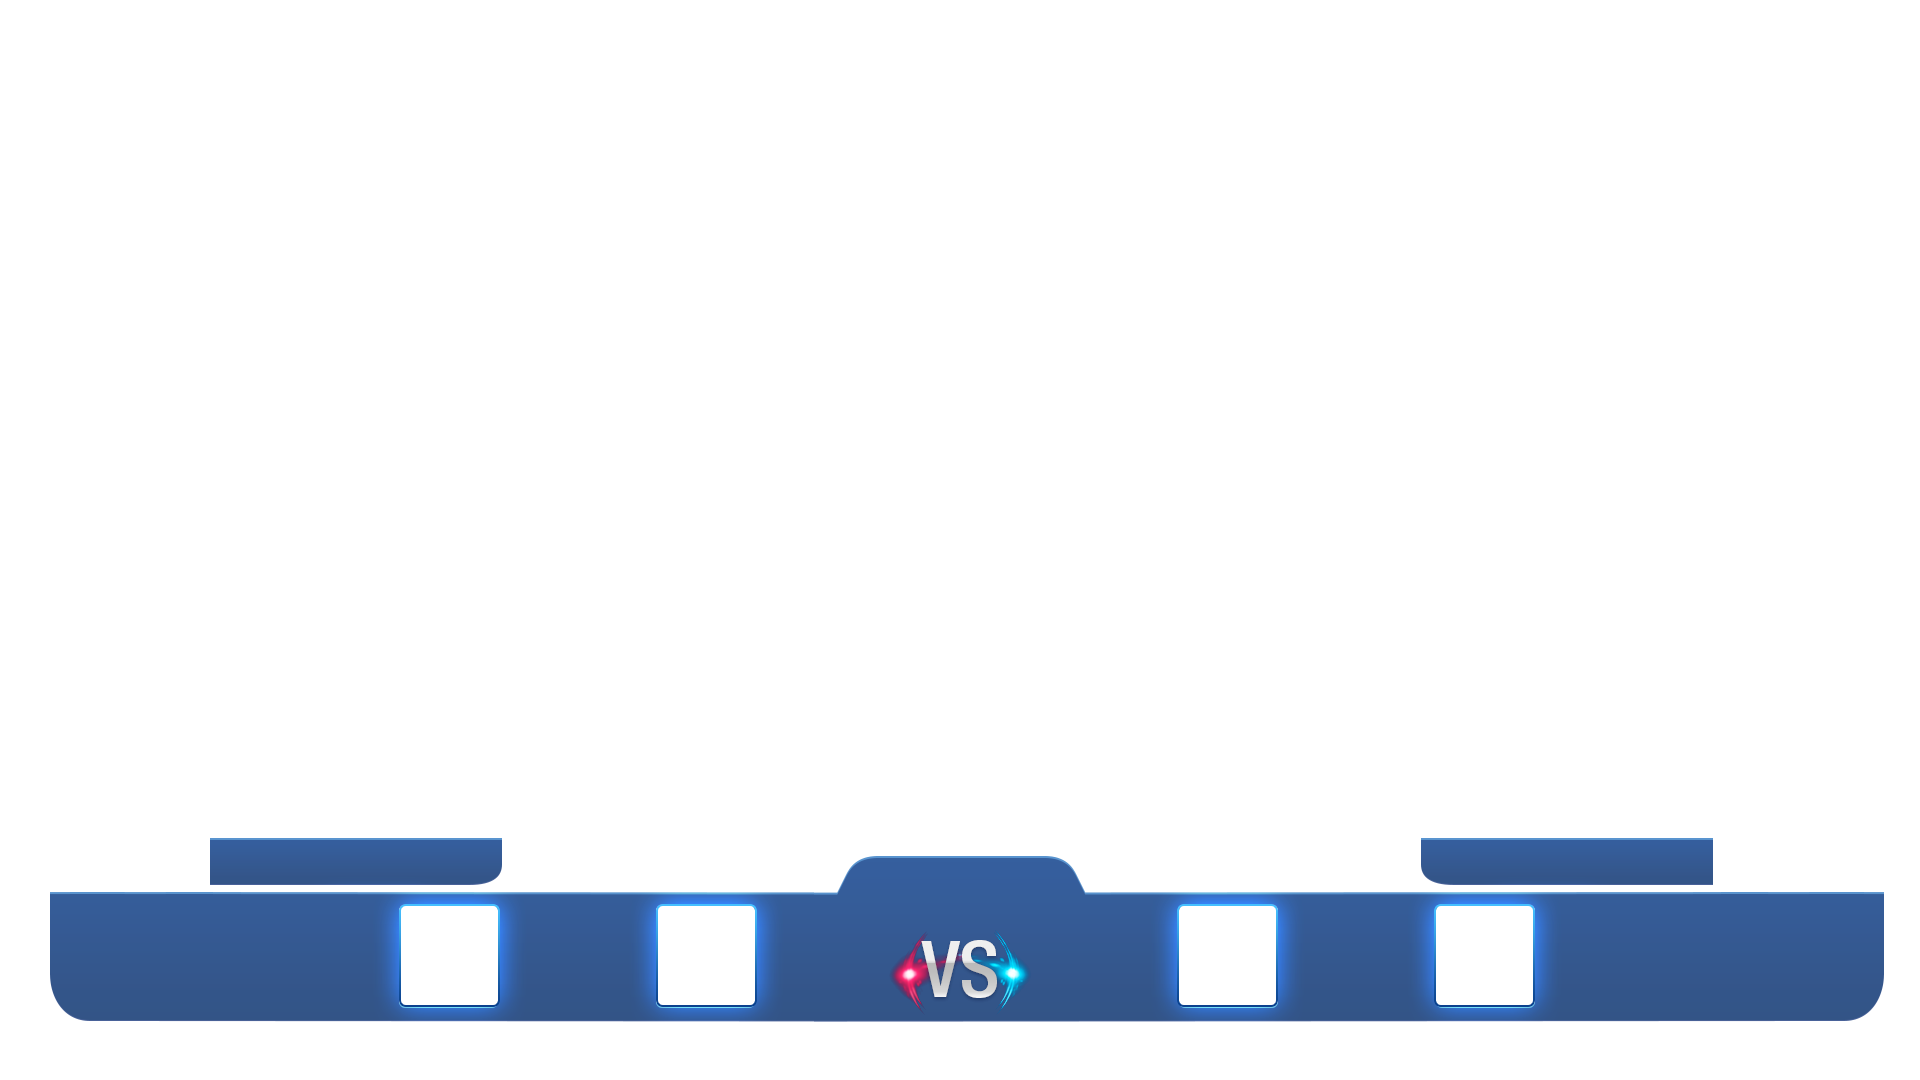
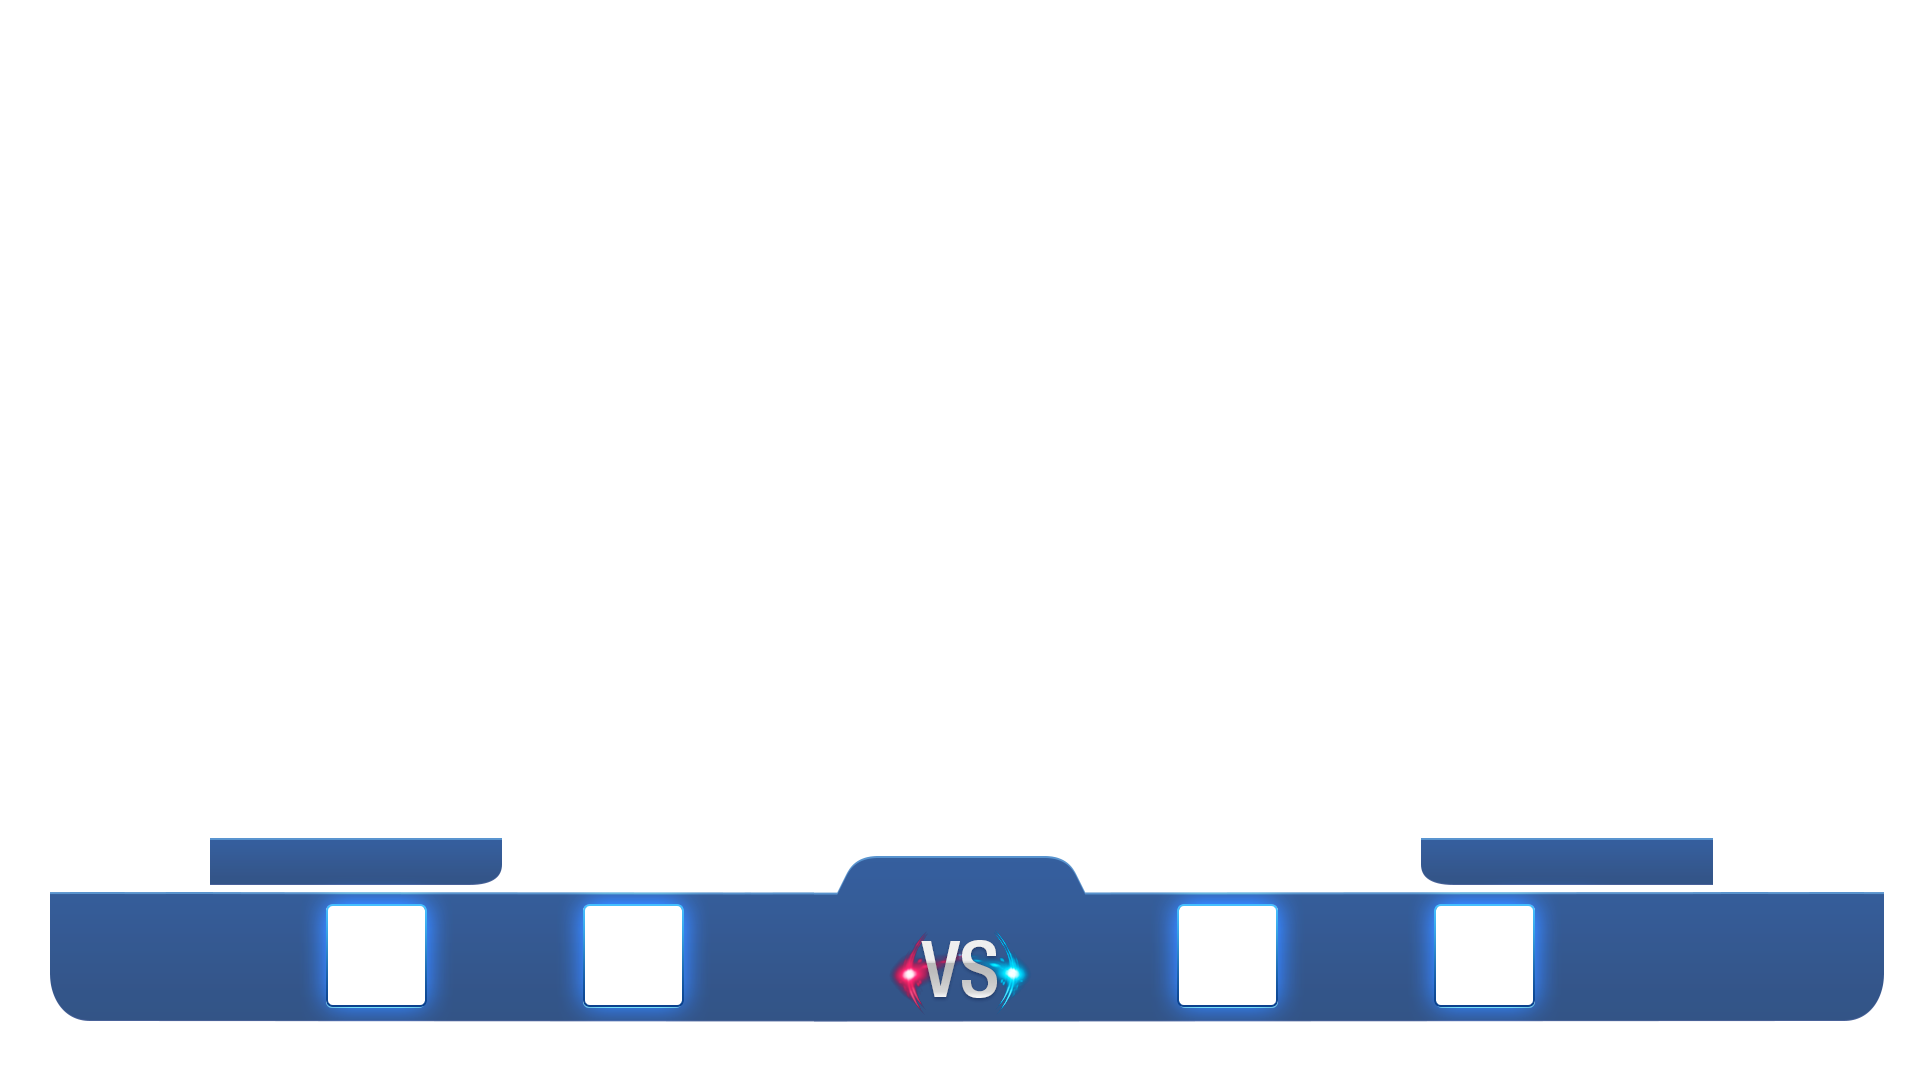
skill name

Changed region(s): [[0.1562, 0.825, 0.4062, 0.9472]]

diff --git a/src/view/panel/stage/StagePanelView.ts b/src/view/panel/stage/StagePanelView.ts
@@ -93,14 +93,6 @@ export class StagePanelView extends BasePanelView {
                 var skillInfoArr = data.skillInfoArr;
                 this.stagePanel.setRightSkillInfoArr(skillInfoArr);
             })
-            // .on(`${CommandId.straightScore3}`, (param) => {
-            //     if (param.team === ViewEvent.STRAIGHT3_LEFT) {
-            //         // this.eventPanel.fadeInStraight3(false);
-            //     }
-            //     else if (param.team === ViewEvent.STRAIGHT3_RIGHT) {
-            //         // this.eventPanel.fadeInStraight3(true);
-            //     }
-            // })
             .on(`${CommandId.toggleTimer}`, (data) => {
                 if (this.timerName === TimerState.START_STR)
                     this.timerName = TimerState.PAUSE_STR;
@@ -112,39 +104,42 @@ export class StagePanelView extends BasePanelView {
                 this.timerName = TimerState.START_STR;
                 // this.scorePanel.resetTimer();
             })
+            .on(`${CommandId.resetGame}`, (data) => {
+                window.location.reload();
+                // this.scorePanel.resetTimer();
+            })
             .on(`${CommandId.updatePlayer}`, (data) => {
                 // this.getElem('#playerImg' + data.idx).src = data.playerDoc.avatar;
                 // this.playerPanel.setPlayer(data.idx, new PlayerInfo(data.playerDoc));
                 this.stagePanel.setPlayerInfo(data.idx, new PlayerInfo(data.playerDoc));
                 // this.scorePanel.setAvgEloScore(data.avgEloScore);
             })
-            .on(`${CommandId.updatePlayerAll}`, (param) => {
-                //todo effect
-                for (var i = 0; i < param.playerInfoArr.length; i++) {
-                    var playerInfo:PlayerInfo = new PlayerInfo(param.playerInfoArr[i]);
-                    // this.playerPanel.setPlayer(i, playerInfo);
-                }
-                // this.scorePanel.setLeftScore(0);
-                // this.scorePanel.setRightScore(0);
-                // this.scorePanel.setAvgEloScore(param.avgEloScore);
-            })
-            .on(`${CommandId.fadeInWinPanel}`, (param) => {
-                var teamInfo = param.teamInfo;
-                var mvpIdx = param.mvpIdx;
-                var mvpId = param.mvpId;
-                // this.eventPanel.fadeInWinPanel(teamInfo, mvpIdx, mvpId);
-            })
-            .on(`${CommandId.fadeOutWinPanel}`, (param) => {
-                // this.eventPanel.fadeOutWinPanel();
-            })
-            .on(`${CommandId.updatePlayerBackNum}`, (param) => {
-                // this.playerPanel.playerCardArr[param.idx].setBackNumber(param.backNum);
-            })
+        // .on(`${CommandId.updatePlayerAll}`, (param) => {
+        //     //todo effect
+        //     for (var i = 0; i < param.playerInfoArr.length; i++) {
+        //         var playerInfo:PlayerInfo = new PlayerInfo(param.playerInfoArr[i]);
+        //         // this.playerPanel.setPlayer(i, playerInfo);
+        //     }
+        //     // this.scorePanel.setLeftScore(0);
+        //     // this.scorePanel.setRightScore(0);
+        //     // this.scorePanel.setAvgEloScore(param.avgEloScore);
+        // })
     }
 
     initStage(gameDoc:any) {
         this.isInit = true;
         this.stagePanel = new StagePanel(this.stage);
+        for (var i = 0; i < 2; i++) {
+            var playerInfo = gameDoc.playerInfoArr[i];
+            this.stagePanel.setPlayerInfo(i, new PlayerInfo(playerInfo));
+        }
+        this.stagePanel.setLeftBall(gameDoc.leftBall);
+        this.stagePanel.setRightBall(gameDoc.rightBall);
+
+        this.stagePanel.setLeftScore(gameDoc.leftScore);
+        this.stagePanel.setRightScore(gameDoc.rightScore);
+        this.stagePanel.setLeftSkillInfoArr(gameDoc.leftSkillInfoArr);
+        this.stagePanel.setRightSkillInfoArr(gameDoc.rightSkillInfoArr);
         // this.scorePanel = new ScorePanel(this);
         // this.scorePanel.init(gameDoc);
         // this.playerPanel = new PlayerPanel(this);
@@ -337,6 +332,10 @@ export class StagePanelView extends BasePanelView {
             skillOP.op = SkillOP.MIN;
             this.opReq(`${CommandId.cs_updateRightSkill}`, skillOP.toJson());
         }
+    }
+
+    onResetGame() {
+        this.opReq(`${CommandId.cs_resetGame}`);
     }
 
 

diff --git a/src/view/panel/stage/StagePanel.ts b/src/view/panel/stage/StagePanel.ts
@@ -75,13 +75,13 @@ export class StagePanel extends Container {
         this.setAvatar(['/img/player/1001.png', '/img/player/1001.png']);
 
 
-        var leftBallText = new createjs.Text("剩余球数：" + "", "35px Arial", "#fff");
+        var leftBallText = new createjs.Text("剩余球数：" + "", "32px Arial", "#fff");
         leftBallText.x = 255;
         leftBallText.y = 846;
         this.addChild(leftBallText);
         this.leftBallText = leftBallText;
 
-        var rightBallText = new createjs.Text("剩余球数：" + "", "35px Arial", "#fff");
+        var rightBallText = new createjs.Text("剩余球数：" + "", "32px Arial", "#fff");
         rightBallText.x = 1450;
         rightBallText.y = leftBallText.y;
         this.addChild(rightBallText);
@@ -109,20 +109,20 @@ export class StagePanel extends Container {
         this.leftScoreText = leftScoreText;
 
         var sScoreText = new createjs.Text(":", "45px Roboto bold", "#ffe21f");
-        sScoreText.x = 960;
+        sScoreText.x = 955;
         sScoreText.y = 873;
         this.addChild(sScoreText);
 
         var rightScoreText = new createjs.Text("6", "45px Roboto bold", "#ffe21f");
         rightScoreText.textAlign = 'center';
         rightScoreText.x = 1025;
-        rightScoreText.y = sScoreText.y;
+        rightScoreText.y = leftScoreText.y;
         this.addChild(rightScoreText);
         this.rightScoreText = rightScoreText;
 
 
         var leftSkill = new Skill(true);
-        leftSkill.x = 400;
+        leftSkill.x = 327;
         leftSkill.y = 905;
         this.skillArr.push(leftSkill);
         this.addChild(leftSkill);
@@ -166,14 +166,16 @@ export class StagePanel extends Container {
     setLeftSkillInfoArr(skillInfoArr:any) {
         for (var i = 0; i < skillInfoArr.length; i++) {
             var skillInfo:SkillInfo = skillInfoArr[i];
-            this.skillArr[0].setSkillNum(i, skillInfo.count)
+            this.skillArr[0].setSkillNum(i, skillInfo.count);
+            this.skillArr[0].skillIconArr[i].setSkillName(skillInfo.name);
         }
     }
 
     setRightSkillInfoArr(skillInfoArr:any) {
         for (var i = 0; i < skillInfoArr.length; i++) {
             var skillInfo:SkillInfo = skillInfoArr[i];
-            this.skillArr[1].setSkillNum(i, skillInfo.count)
+            this.skillArr[1].setSkillNum(i, skillInfo.count);
+            this.skillArr[1].skillIconArr[i].setSkillName(skillInfo.name);
         }
     }
 }

diff --git a/src/view/panel/stage/Skill.ts b/src/view/panel/stage/Skill.ts
@@ -1,12 +1,15 @@
 import Container = createjs.Container;
 import BitmapText = createjs.BitmapText;
+import {blink} from "../../../utils/Fx";
+import Text = createjs.Text;
 
 class SkillIcon extends Container {
     iconCtn:Container;
     skillCount:BitmapText;
+    skillNameText:Text;
 
     constructor() {
-        super()
+        super();
         this.iconCtn = new createjs.Container();
         this.addChild(this.iconCtn);
 
@@ -34,12 +37,18 @@ class SkillIcon extends Container {
                 [75, 0, 24, 30]]
         });
 
-
         var skillCount = new createjs.BitmapText("0", sheet);
         skillCount.x = 152;
-        skillCount.y = 40;
+        skillCount.y = 42;
         this.addChild(skillCount);
         this.skillCount = skillCount;
+
+
+        var skillNameText = new createjs.Text("", "25px Arial", "#fff");
+        skillNameText.x = 115;
+        skillNameText.y = 2;
+        this.addChild(skillNameText);
+        this.skillNameText = skillNameText;
     }
 
     setIcon(iconPath:string) {
@@ -52,7 +61,16 @@ class SkillIcon extends Container {
         // });
     }
 
+    setSkillName(skillName:string) {
+        this.skillNameText.text = skillName;
+    }
+
     setCount(count:number) {
+        var curText = this.skillCount.text;
+        if (curText != `${count}`) {
+            blink(this.skillCount);
+            blink(this.iconCtn);
+        }
         this.skillCount.text = count + "";
     }
 }
@@ -80,5 +98,6 @@ export class Skill extends Container {
     setSkillNum(idx:number, count:number) {
         this.skillIconArr[idx].setCount(count);
     }
+    
 
 }

diff --git a/src/model/GameInfo.ts b/src/model/GameInfo.ts
@@ -29,7 +29,7 @@ export class GameInfo {
     straightScoreLeft:number = 0;//连杀判定
     straightScoreStack:any = [];//history [{left,right}]
     straightScoreRight:number = 0;//连杀判定
-    playerInfoArr:PlayerInfo[] = new Array(8);
+    playerInfoArr:PlayerInfo[] = new Array(2);
     playerRecArr:any = [];
     _timer:number = 0;
     static GAME_STATE_ING = 0;
@@ -56,10 +56,10 @@ export class GameInfo {
             }
         }
 
-        this.leftSkillInfoArr.push(new SkillInfo());
-        this.leftSkillInfoArr.push(new SkillInfo());
-        this.rightSkillInfoArr.push(new SkillInfo());
-        this.rightSkillInfoArr.push(new SkillInfo());
+        this.leftSkillInfoArr.push(new SkillInfo('连杆'));
+        this.leftSkillInfoArr.push(new SkillInfo('恶魔时光机'));
+        this.rightSkillInfoArr.push(new SkillInfo('连杆'));
+        this.rightSkillInfoArr.push(new SkillInfo('恶魔时光机'));
     }
 
     getAvgEloScore() {
@@ -96,7 +96,7 @@ export class GameInfo {
             this.leftScore = (this.leftScore + 1) % (this.winScore + 1);
         // cmd.emit(CommandId.addLeftScore, this.gameInfo.leftScore, this.pid);
 
-        this.pushStraightScore()
+        this.pushStraightScore();
 
         this.straightScoreRight = 0;
         this.straightScoreLeft++;

diff --git a/src/router/StagePanelHandle.ts b/src/router/StagePanelHandle.ts
@@ -109,6 +109,11 @@ export class StagePanelHandle {
                 this.io.emit(`${CommandId.updateRightSkill}`, ScParam({skillInfoArr: this.gameInfo.rightSkillInfoArr}));
             };
 
+            cmdMap[`${CommandId.cs_resetGame}`] = (param) => {
+                this.gameInfo = new GameInfo();
+                this.io.emit(`${CommandId.resetGame}`);
+            };
+
             // cmdMap[`${CommandId.cs_fadeInComingActivity}`] = () => {
             //     screenPanelHanle.io.emit(`${CommandId.fadeInComingActivity}`);
             // };

diff --git a/src/view/panel/stage/stage-panel.html b/src/view/panel/stage/stage-panel.html
@@ -35,10 +35,7 @@
     </div>
 
     <div class="row">
-        <a class="waves-effect waves-light btn" @click="onShowWin">Show Win</a>
-        <a class="waves-effect waves-light btn" @click="onHideWin">Hide Win</a>
-        <a class="waves-effect waves-light btn" @click="onSubmitGame">Submit Game</a>
-        <a class="waves-effect waves-light btn" @click="onRefresh">Refresh</a>
+        <a class="waves-effect waves-light btn" @click="onResetGame">重置</a>
     </div>
 </div>
 <div style="display: none">

diff --git a/src/Server.ts b/src/Server.ts
@@ -78,6 +78,7 @@ export class WebServer {
         app.use(bodyParser.urlencoded({extended: false, limit: '55mb'}));// create application/x-www-form-urlencoded parser
         app.use(bodyParser.json({limit: '50mb'}));
 
+        
         app.all("*", function (req:any, res:any, next:any) {
             res.header('Access-Control-Allow-Origin', '*');
             res.header("Access-Control-Allow-Headers", "Content-Type,Content-Length, Authorization, Accept,X-Requested-With");

diff --git a/src/event/Command.ts b/src/event/Command.ts
@@ -55,7 +55,8 @@ export enum CommandId{
     updatePlayerBackNum,
     fadeInNotice,//小喇叭
     cs_fadeInNotice,
-    cs_resetGame,//重置比分 时间 player
+    cs_resetGame,//重置game
+    resetGame,//
     cs_unLimitScore,//不限制比分显示
     unLimitScore,//不限制比分显示
     //-----------------win panel

diff --git a/src/model/SkillOP.ts b/src/model/SkillOP.ts
@@ -12,6 +12,11 @@ export class SkillOP {
 
 export class SkillInfo {
     idx:number = 0;
+    name:string;
     count:number = 0;
     used:number = 0;
+
+    constructor(name:string) {
+        this.name = name;
+    }
 }
